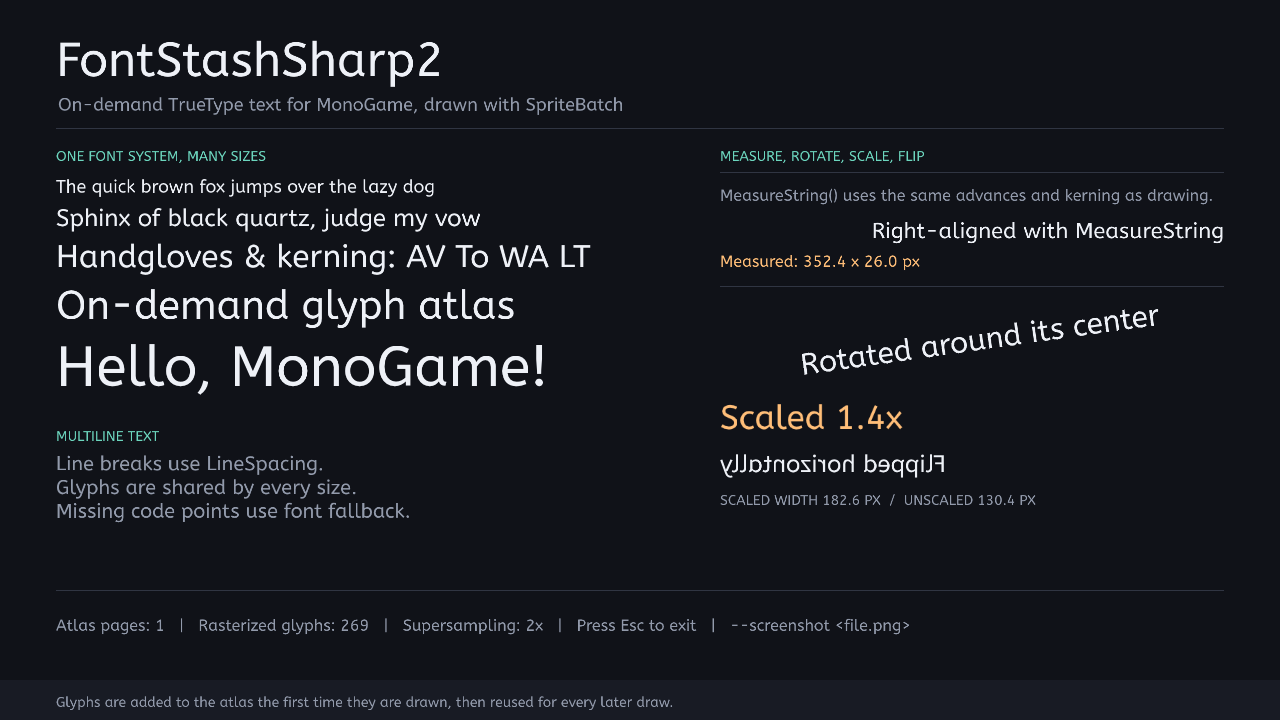
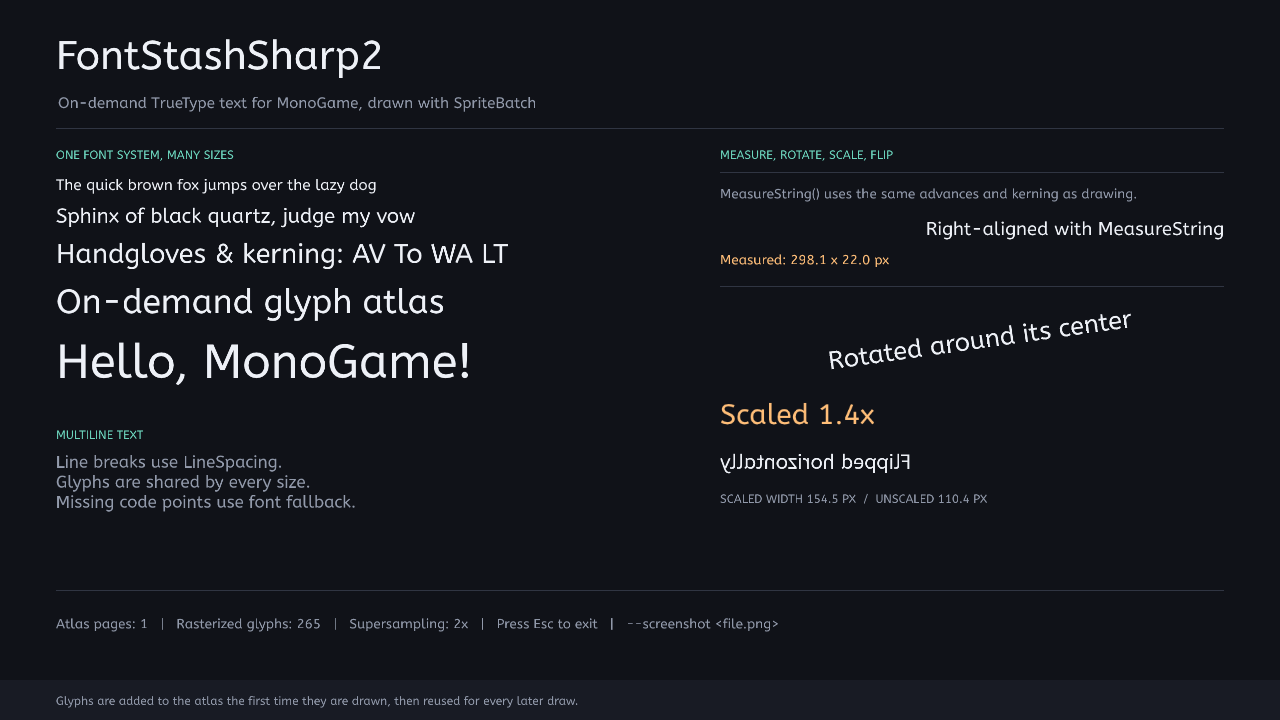
Default font scaling to pixel height with em mode setting

diff --git a/FontStashSharp2/FontSystemSettings.cs b/FontStashSharp2/FontSystemSettings.cs
@@ -15,6 +15,7 @@ public sealed class FontSystemSettings
 	private int _maxTextureCount = 8;
 	private int _glyphPadding = 1;
 	private float _supersamplingFactor = 2f;
+	private FontScaleMode _scaleMode = FontScaleMode.ScaleForPixelHeight;
 	private GlyphAlphaMode _alphaMode = GlyphAlphaMode.Premultiplied;
 
 	/// <summary>
@@ -121,6 +122,25 @@ public sealed class FontSystemSettings
 	}
 
 	/// <summary>
+	/// Gets or sets how font units are converted to pixels. Defaults to
+	/// <see cref="FontScaleMode.ScaleForPixelHeight"/>.
+	/// </summary>
+	/// <remarks>
+	/// <see cref="FontScaleMode.ScaleForPixelHeight"/> makes the font's ascent-to-descent height equal
+	/// to <see cref="DynamicSpriteFont.FontSize"/>. <see cref="FontScaleMode.ScaleForMappingEmToPixels"/>
+	/// makes the em square equal to the font size instead.
+	/// </remarks>
+	public FontScaleMode ScaleMode
+	{
+		get => _scaleMode;
+		set
+		{
+			ValidateScaleMode(value);
+			_scaleMode = value;
+		}
+	}
+
+	/// <summary>
 	/// Gets or sets whether kerning pairs from the font are applied. Defaults to <see langword="true"/>.
 	/// </summary>
 	public bool UseKerning { get; set; } = true;
@@ -156,6 +176,7 @@ public sealed class FontSystemSettings
 			GlyphPadding = _glyphPadding,
 			SupersamplingFactor = _supersamplingFactor,
 			UseKerning = UseKerning,
+			ScaleMode = _scaleMode,
 			AlphaMode = _alphaMode,
 		};
 	}
@@ -190,7 +211,20 @@ public sealed class FontSystemSettings
 				"Supersampling factor must be finite and at least 1.0.");
 		}
 
+		ValidateScaleMode(_scaleMode);
 		ValidateAlphaMode(_alphaMode);
+	}
+
+	private static void ValidateScaleMode(FontScaleMode value)
+	{
+		if (value is not (FontScaleMode.ScaleForPixelHeight
+			or FontScaleMode.ScaleForMappingEmToPixels))
+		{
+			throw new ArgumentOutOfRangeException(
+				nameof(ScaleMode),
+				value,
+				"ScaleMode must be ScaleForPixelHeight or ScaleForMappingEmToPixels.");
+		}
 	}
 
 	private static void ValidateAlphaMode(GlyphAlphaMode value)

diff --git a/FontStashSharp2.Tests/FontSystemSettingsTests.cs b/FontStashSharp2.Tests/FontSystemSettingsTests.cs
@@ -13,6 +13,7 @@ public sealed class FontSystemSettingsTests
 		Assert.Equal(1, settings.GlyphPadding);
 		Assert.Equal(2f, settings.SupersamplingFactor);
 		Assert.True(settings.UseKerning);
+		Assert.Equal(FontScaleMode.ScaleForPixelHeight, settings.ScaleMode);
 		Assert.Equal(GlyphAlphaMode.Premultiplied, settings.AlphaMode);
 	}
 
@@ -77,6 +78,14 @@ public sealed class FontSystemSettingsTests
 	}
 
 	[Fact]
+	public void ScaleMode_RejectsUndefinedValues()
+	{
+		var settings = new FontSystemSettings();
+
+		Assert.Throws<ArgumentOutOfRangeException>(() => settings.ScaleMode = (FontScaleMode)99);
+	}
+
+	[Fact]
 	public void AlphaMode_RejectsUndefinedValues()
 	{
 		var settings = new FontSystemSettings();
@@ -91,6 +100,7 @@ public sealed class FontSystemSettingsTests
 		{
 			GlyphPadding = 3,
 			SupersamplingFactor = 1.5f,
+			ScaleMode = FontScaleMode.ScaleForMappingEmToPixels,
 			AlphaMode = GlyphAlphaMode.NoAntialiasing,
 		};
 		var atlas = new RecordingGlyphAtlas();
@@ -98,14 +108,17 @@ public sealed class FontSystemSettingsTests
 
 		settings.GlyphPadding = 9;
 		settings.SupersamplingFactor = 3f;
+		settings.ScaleMode = FontScaleMode.ScaleForPixelHeight;
 		settings.AlphaMode = GlyphAlphaMode.NonPremultiplied;
 
 		// The system holds its own validated copy; the public settings object can be reused safely.
 		Assert.Equal(3, fontSystem.Settings.GlyphPadding);
 		Assert.Equal(1.5f, fontSystem.Settings.SupersamplingFactor);
+		Assert.Equal(FontScaleMode.ScaleForMappingEmToPixels, fontSystem.Settings.ScaleMode);
 		Assert.Equal(GlyphAlphaMode.NoAntialiasing, fontSystem.Settings.AlphaMode);
 		Assert.Equal(9, settings.GlyphPadding);
 		Assert.Equal(3f, settings.SupersamplingFactor);
+		Assert.Equal(FontScaleMode.ScaleForPixelHeight, settings.ScaleMode);
 		Assert.Equal(GlyphAlphaMode.NonPremultiplied, settings.AlphaMode);
 	}
 }

diff --git a/FontStashSharp2.Tests/MeasurementTests.cs b/FontStashSharp2.Tests/MeasurementTests.cs
@@ -147,7 +147,29 @@ public sealed class MeasurementTests
 
 		Assert.Equal(font.Ascent - font.Descent + font.LineGap, font.LineSpacing, 3);
 		Assert.True(font.Descent < 0f);
-		Assert.True(font.LineSpacing > font.FontSize);
+		Assert.True(font.LineSpacing >= font.FontSize - 0.01f);
+	}
+
+	[Fact]
+	public void ScaleMode_ChangesVerticalMetrics()
+	{
+		using var pixelSystem = TestFonts.CreateFontSystem(new FontSystemSettings
+		{
+			ScaleMode = FontScaleMode.ScaleForPixelHeight,
+		});
+		pixelSystem.AddFont(TestFonts.Data);
+
+		using var emSystem = TestFonts.CreateFontSystem(new FontSystemSettings
+		{
+			ScaleMode = FontScaleMode.ScaleForMappingEmToPixels,
+		});
+		emSystem.AddFont(TestFonts.Data);
+
+		var pixelFont = pixelSystem.GetFont(32f);
+		var emFont = emSystem.GetFont(32f);
+
+		Assert.True(pixelFont.LineSpacing >= 32f - 0.01f);
+		Assert.True(Math.Abs(pixelFont.Ascent - emFont.Ascent) > 0.01f);
 	}
 
 	[Fact]

diff --git a/FontStashSharp2/FontSystem.cs b/FontStashSharp2/FontSystem.cs
@@ -87,6 +87,8 @@ public sealed class FontSystem : IDisposable
 
 	internal float SupersamplingFactor => _settings.SupersamplingFactor;
 
+	internal FontScaleMode ScaleMode => _settings.ScaleMode;
+
 	internal long AtlasGeneration => _atlasGeneration;
 
 	internal IGlyphAtlas GetAtlas(AtlasDevice device)
@@ -164,7 +166,7 @@ public sealed class FontSystem : IDisposable
 	/// Gets a font of a given size in pixels. Sizes are cached: repeated calls with the same size
 	/// return the same instance and share its glyph cache.
 	/// </summary>
-	/// <param name="size">The font size in pixels (the em size). Must be positive and finite.</param>
+	/// <param name="size">The font size in pixels. Must be positive and finite.</param>
 	public DynamicSpriteFont GetFont(float size)
 	{
 		ThrowIfDisposed();

diff --git a/FontStashSharp2/DynamicSpriteFont.cs b/FontStashSharp2/DynamicSpriteFont.cs
@@ -38,7 +38,7 @@ public sealed class DynamicSpriteFont : SpriteFontBase
 		var scales = new float[sources.Length];
 		for (var i = 0; i < sources.Length; i++)
 		{
-			scales[i] = sources[i].GetScale(size);
+			scales[i] = sources[i].GetScale(size, fontSystem.ScaleMode);
 		}
 
 		var primaryScale = scales[0];
@@ -58,7 +58,8 @@ public sealed class DynamicSpriteFont : SpriteFontBase
 	}
 
 	/// <summary>
-	/// Gets the font size in pixels (the em size).
+	/// Gets the font size in pixels. The mapping to font units depends on
+	/// <see cref="FontSystemSettings.ScaleMode"/>.
 	/// </summary>
 	public override float FontSize { get; }
 

diff --git a/FontStashSharp2/FontScaleMode.cs b/FontStashSharp2/FontScaleMode.cs
@@ -1,0 +1,18 @@
+namespace FontStashSharp2;
+
+/// <summary>
+/// Selects how font units are converted to pixels.
+/// </summary>
+public enum FontScaleMode
+{
+	/// <summary>
+	/// Maps the font's ascent-to-descent pixel height to <see cref="DynamicSpriteFont.FontSize"/>. This
+	/// is the default.
+	/// </summary>
+	ScaleForPixelHeight = 0,
+
+	/// <summary>
+	/// Maps the font's em square to <see cref="DynamicSpriteFont.FontSize"/>.
+	/// </summary>
+	ScaleForMappingEmToPixels = 1,
+}

diff --git a/FontStashSharp2/FontSource.cs b/FontStashSharp2/FontSource.cs
@@ -104,9 +104,11 @@ public sealed class FontSource
 		return _font.FindGlyphIndex(codepoint) != 0;
 	}
 
-	internal float GetScale(float fontSize)
+	internal float GetScale(float fontSize, FontScaleMode scaleMode)
 	{
-		return _font.ScaleForMappingEmToPixels(fontSize);
+		return scaleMode == FontScaleMode.ScaleForPixelHeight
+			? _font.ScaleForPixelHeight(fontSize)
+			: _font.ScaleForMappingEmToPixels(fontSize);
 	}
 
 	internal int GetAdvanceWidth(int glyphIndex)

diff --git a/Samples/Benchmark/BenchmarkGame.cs b/Samples/Benchmark/BenchmarkGame.cs
@@ -80,6 +80,8 @@ internal sealed class BenchmarkGame : Game
 				TextureHeight = 1024,
 				GlyphPadding = 1,
 				SupersamplingFactor = 1f,
+				// Match the runtime SpriteFont, which uses em-to-pixel scaling.
+				ScaleMode = FontScaleMode.ScaleForMappingEmToPixels,
 				UseKerning = !_options.DisableKerning,
 			});
 

diff --git a/FontStashSharp2/SpriteFontBase.cs b/FontStashSharp2/SpriteFontBase.cs
@@ -29,7 +29,7 @@ namespace FontStashSharp2;
 public abstract class SpriteFontBase
 {
 	/// <summary>
-	/// Gets the font size in pixels (the em size).
+	/// Gets the font size in pixels.
 	/// </summary>
 	public abstract float FontSize { get; }
 

diff --git a/AGENTS.md b/AGENTS.md
@@ -135,8 +135,8 @@ clear.
 - The baseline of the first line is `position.Y + Ascent`; each following line adds `LineSpacing`.
 - StbTrueTypeNext glyph offsets are baseline-relative with Y growing downward (negative above the
   baseline). Do not flip the sign.
-- Advances and kerning are converted from font units with
-  `ScaleForMappingEmToPixels(FontSize)` (em sizing), not `ScaleForPixelHeight`.
+- Advances and kerning are converted from font units with `FontSystemSettings.ScaleMode`.
+  `ScaleForPixelHeight` is the default; `ScaleForMappingEmToPixels` opts into em sizing.
 - Glyph bitmaps are rasterized at `fontScale * SupersamplingFactor`. Bitmap offsets are divided by
   the factor before layout so advances, ascent, and line spacing stay nominal. Atlas source rectangles
   remain physical; draws use `requestedScale / SupersamplingFactor`.
@@ -227,7 +227,8 @@ When adding behavior, add tests for:
 `Samples/Benchmark` is the source of truth for DrawString performance claims.
 
 - Compare the same TTF, pixel size, text, and pre-baked atlas for both engines. The benchmark uses
-  `SupersamplingFactor = 1` so SpriteFont and FontStashSharp2 both draw 1:1 atlases.
+  `SupersamplingFactor = 1` so SpriteFont and FontStashSharp2 both draw 1:1 atlases, and
+  `ScaleMode = ScaleForMappingEmToPixels` to match the runtime SpriteFont's em scaling.
 - Exclude first-use glyph rasterization, JIT, and batch growth from measured phases via warmup.
 - Alternate mode order between rounds and report CPU submission (small clipped target) separately
   from full rendering (1280×720) so GPU fill does not hide CPU regressions.

diff --git a/docfx/index.md b/docfx/index.md
@@ -223,6 +223,7 @@ protected override void UnloadContent()
 | --- | --- | --- |
 | `TextureWidth` | 1024 | Width of each atlas page. |
 | `TextureHeight` | 1024 | Height of each atlas page. |
+| `ScaleMode` | `ScaleForPixelHeight` | Map font units by pixel height or by em square. |
 | `MaxTextureCount` | 8 | Maximum number of pages before adding a glyph throws. |
 | `GlyphPadding` | 1 | Transparent/extruded border around each glyph. |
 | `SupersamplingFactor` | 2 | Glyphs rasterize at `FontSize * factor`; atlas memory grows ~factor². |
@@ -234,7 +235,9 @@ afterwards.
 
 ## Behavior details
 
-- `FontSize` is the em size in pixels.
+- `FontSize` is measured in pixels. By default it maps the font's ascent-to-descent height
+  (`FontScaleMode.ScaleForPixelHeight`); set `ScaleMode = FontScaleMode.ScaleForMappingEmToPixels`
+  to map the em square instead.
 - `\n` and `\r\n` break lines. Tab advances by one space.
 - `SpriteEffects.FlipHorizontally` / `FlipVertically` mirror the whole text block.
 - Glyphs are rasterized at `FontSize * SupersamplingFactor` (default 2×) and drawn at the inverse

diff --git a/docfx/articles/architecture.md b/docfx/articles/architecture.md
@@ -73,7 +73,9 @@ For each code point:
 4. Place the glyph bitmap at `pen + (bitmap.XOffset / SupersamplingFactor)`, and
    `baseline + (bitmap.YOffset / SupersamplingFactor)`.
 
-Font units are converted with `ScaleForMappingEmToPixels(FontSize)`, so `FontSize` is an em size.
+Font units are converted with `ScaleForPixelHeight(FontSize)` by default, so `FontSize` is the
+ascent-to-descent pixel height. Set `FontSystemSettings.ScaleMode` to
+`FontScaleMode.ScaleForMappingEmToPixels` to map the em square instead.
 Vertical metrics give `Ascent`, `Descent` (negative), and `LineGap`; the default line spacing is
 `Ascent - Descent + LineGap`.
 
